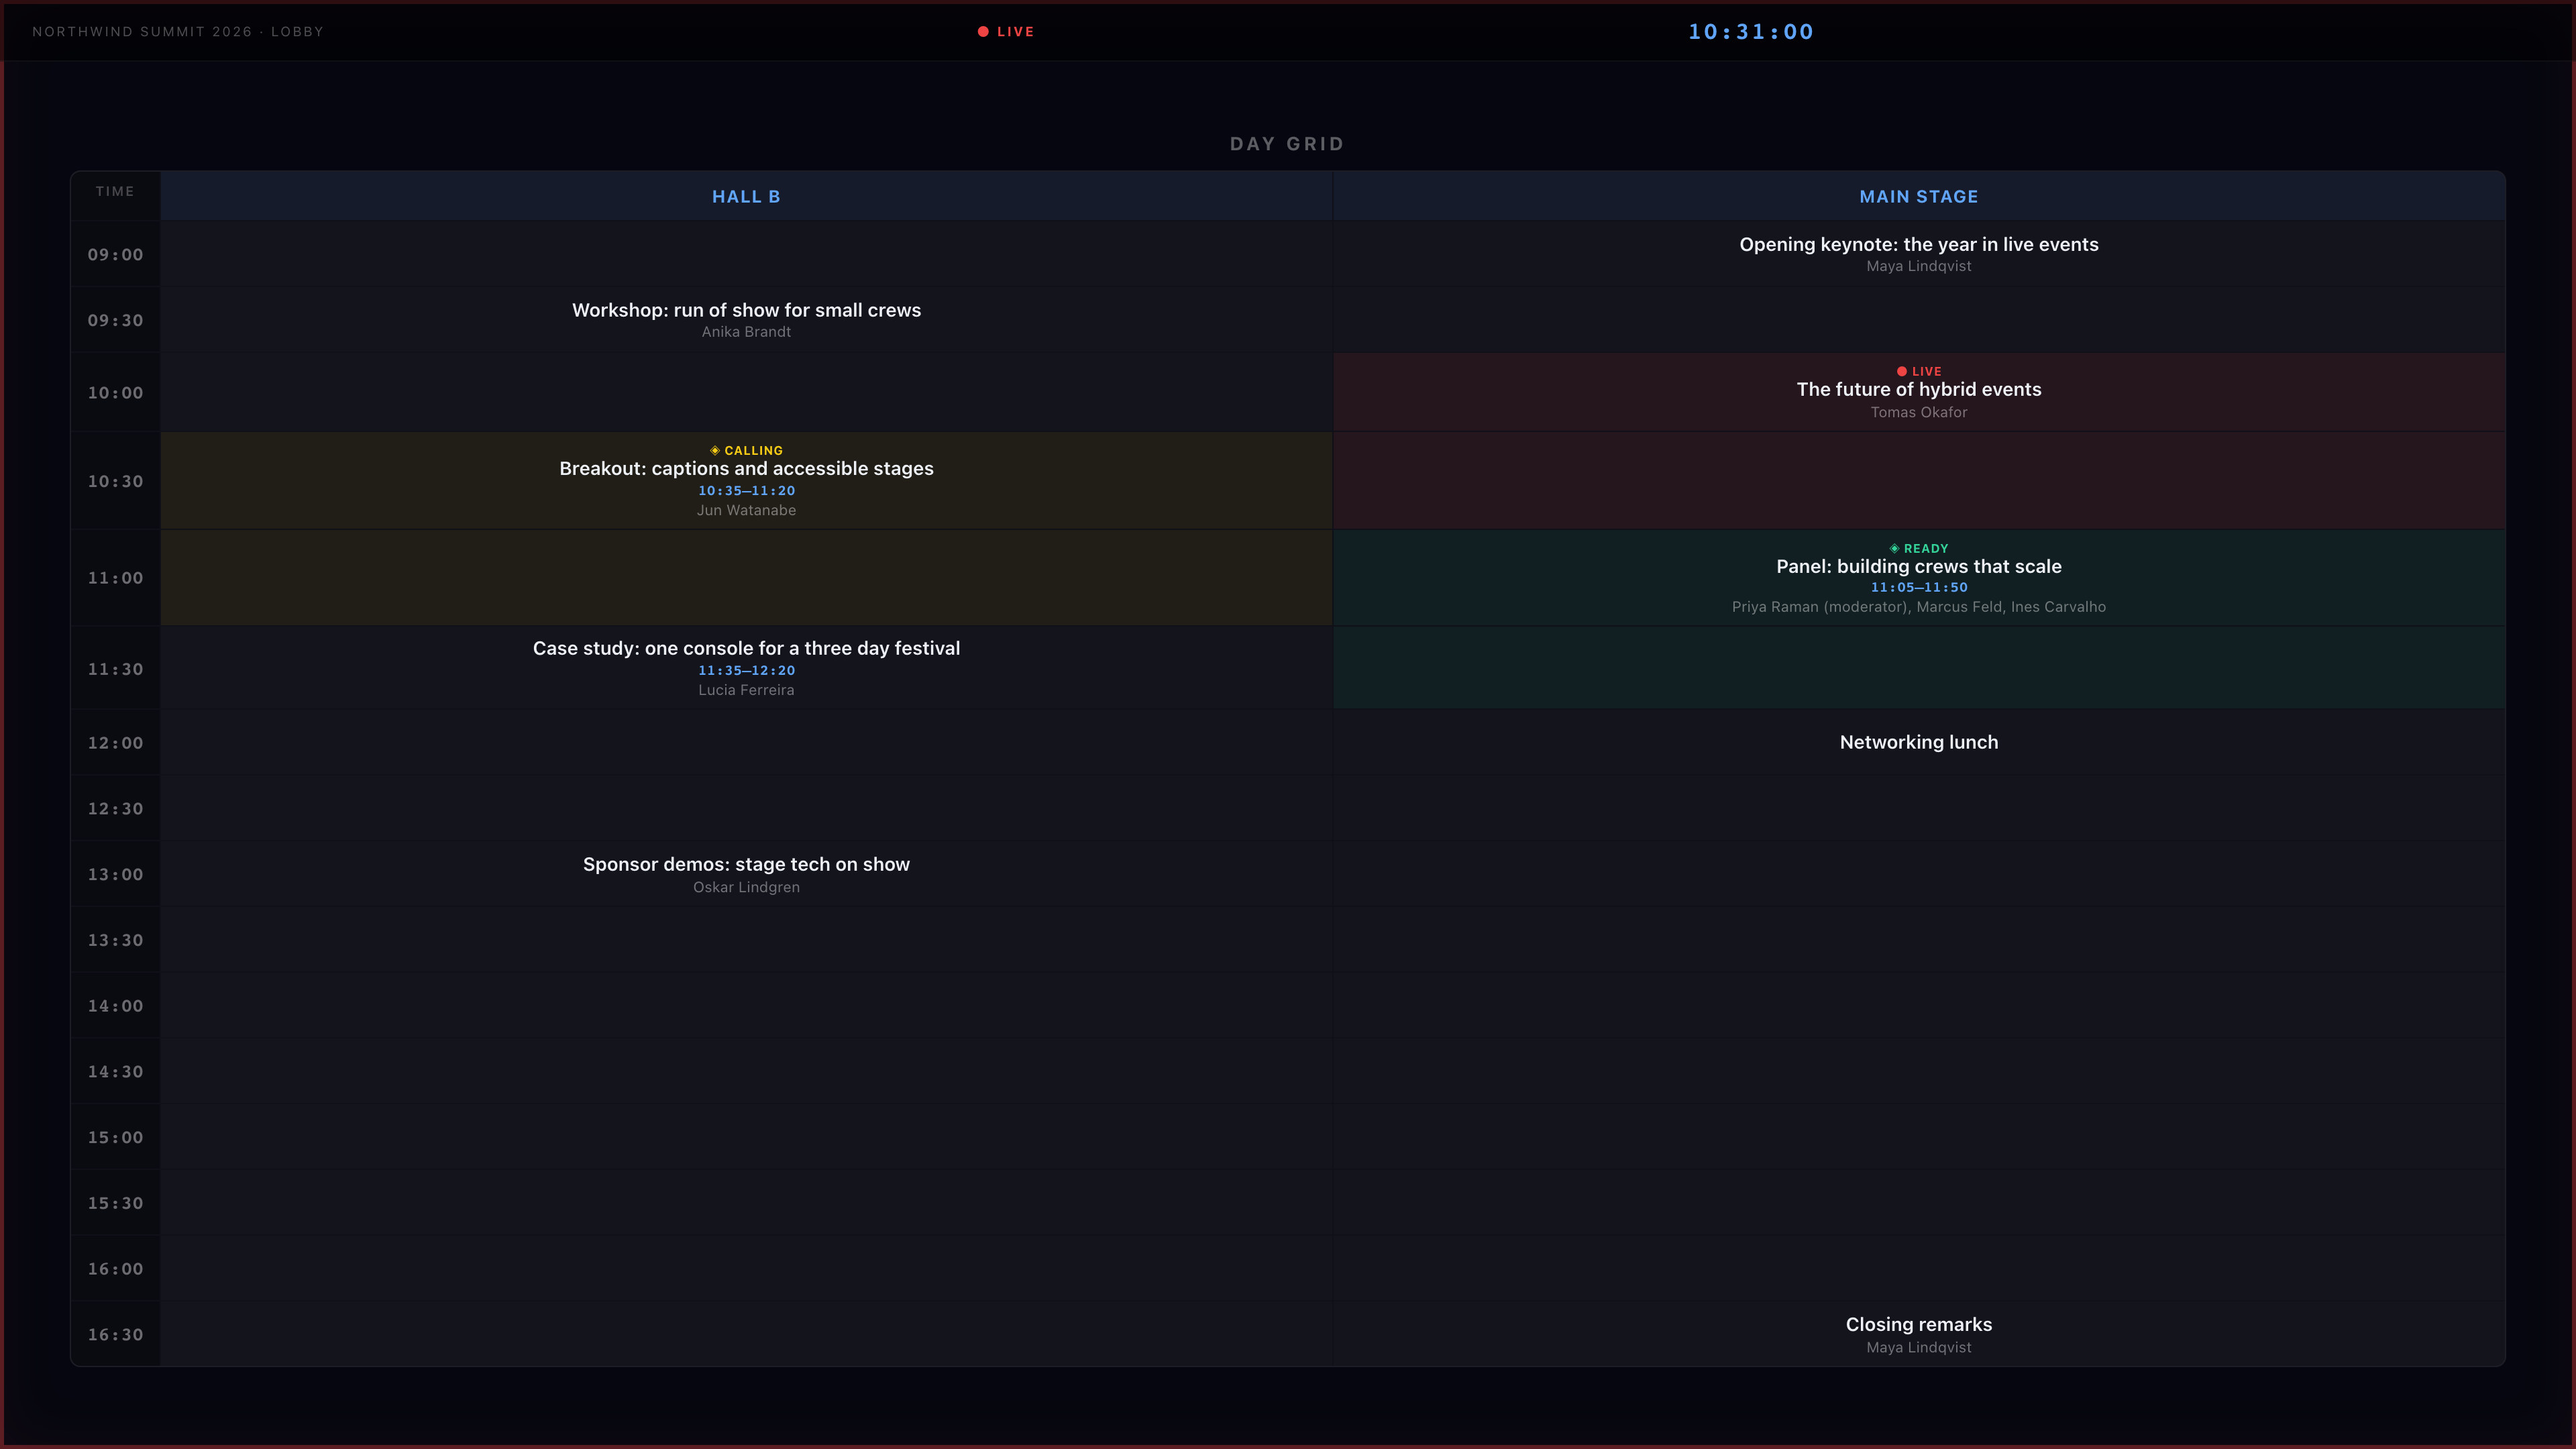
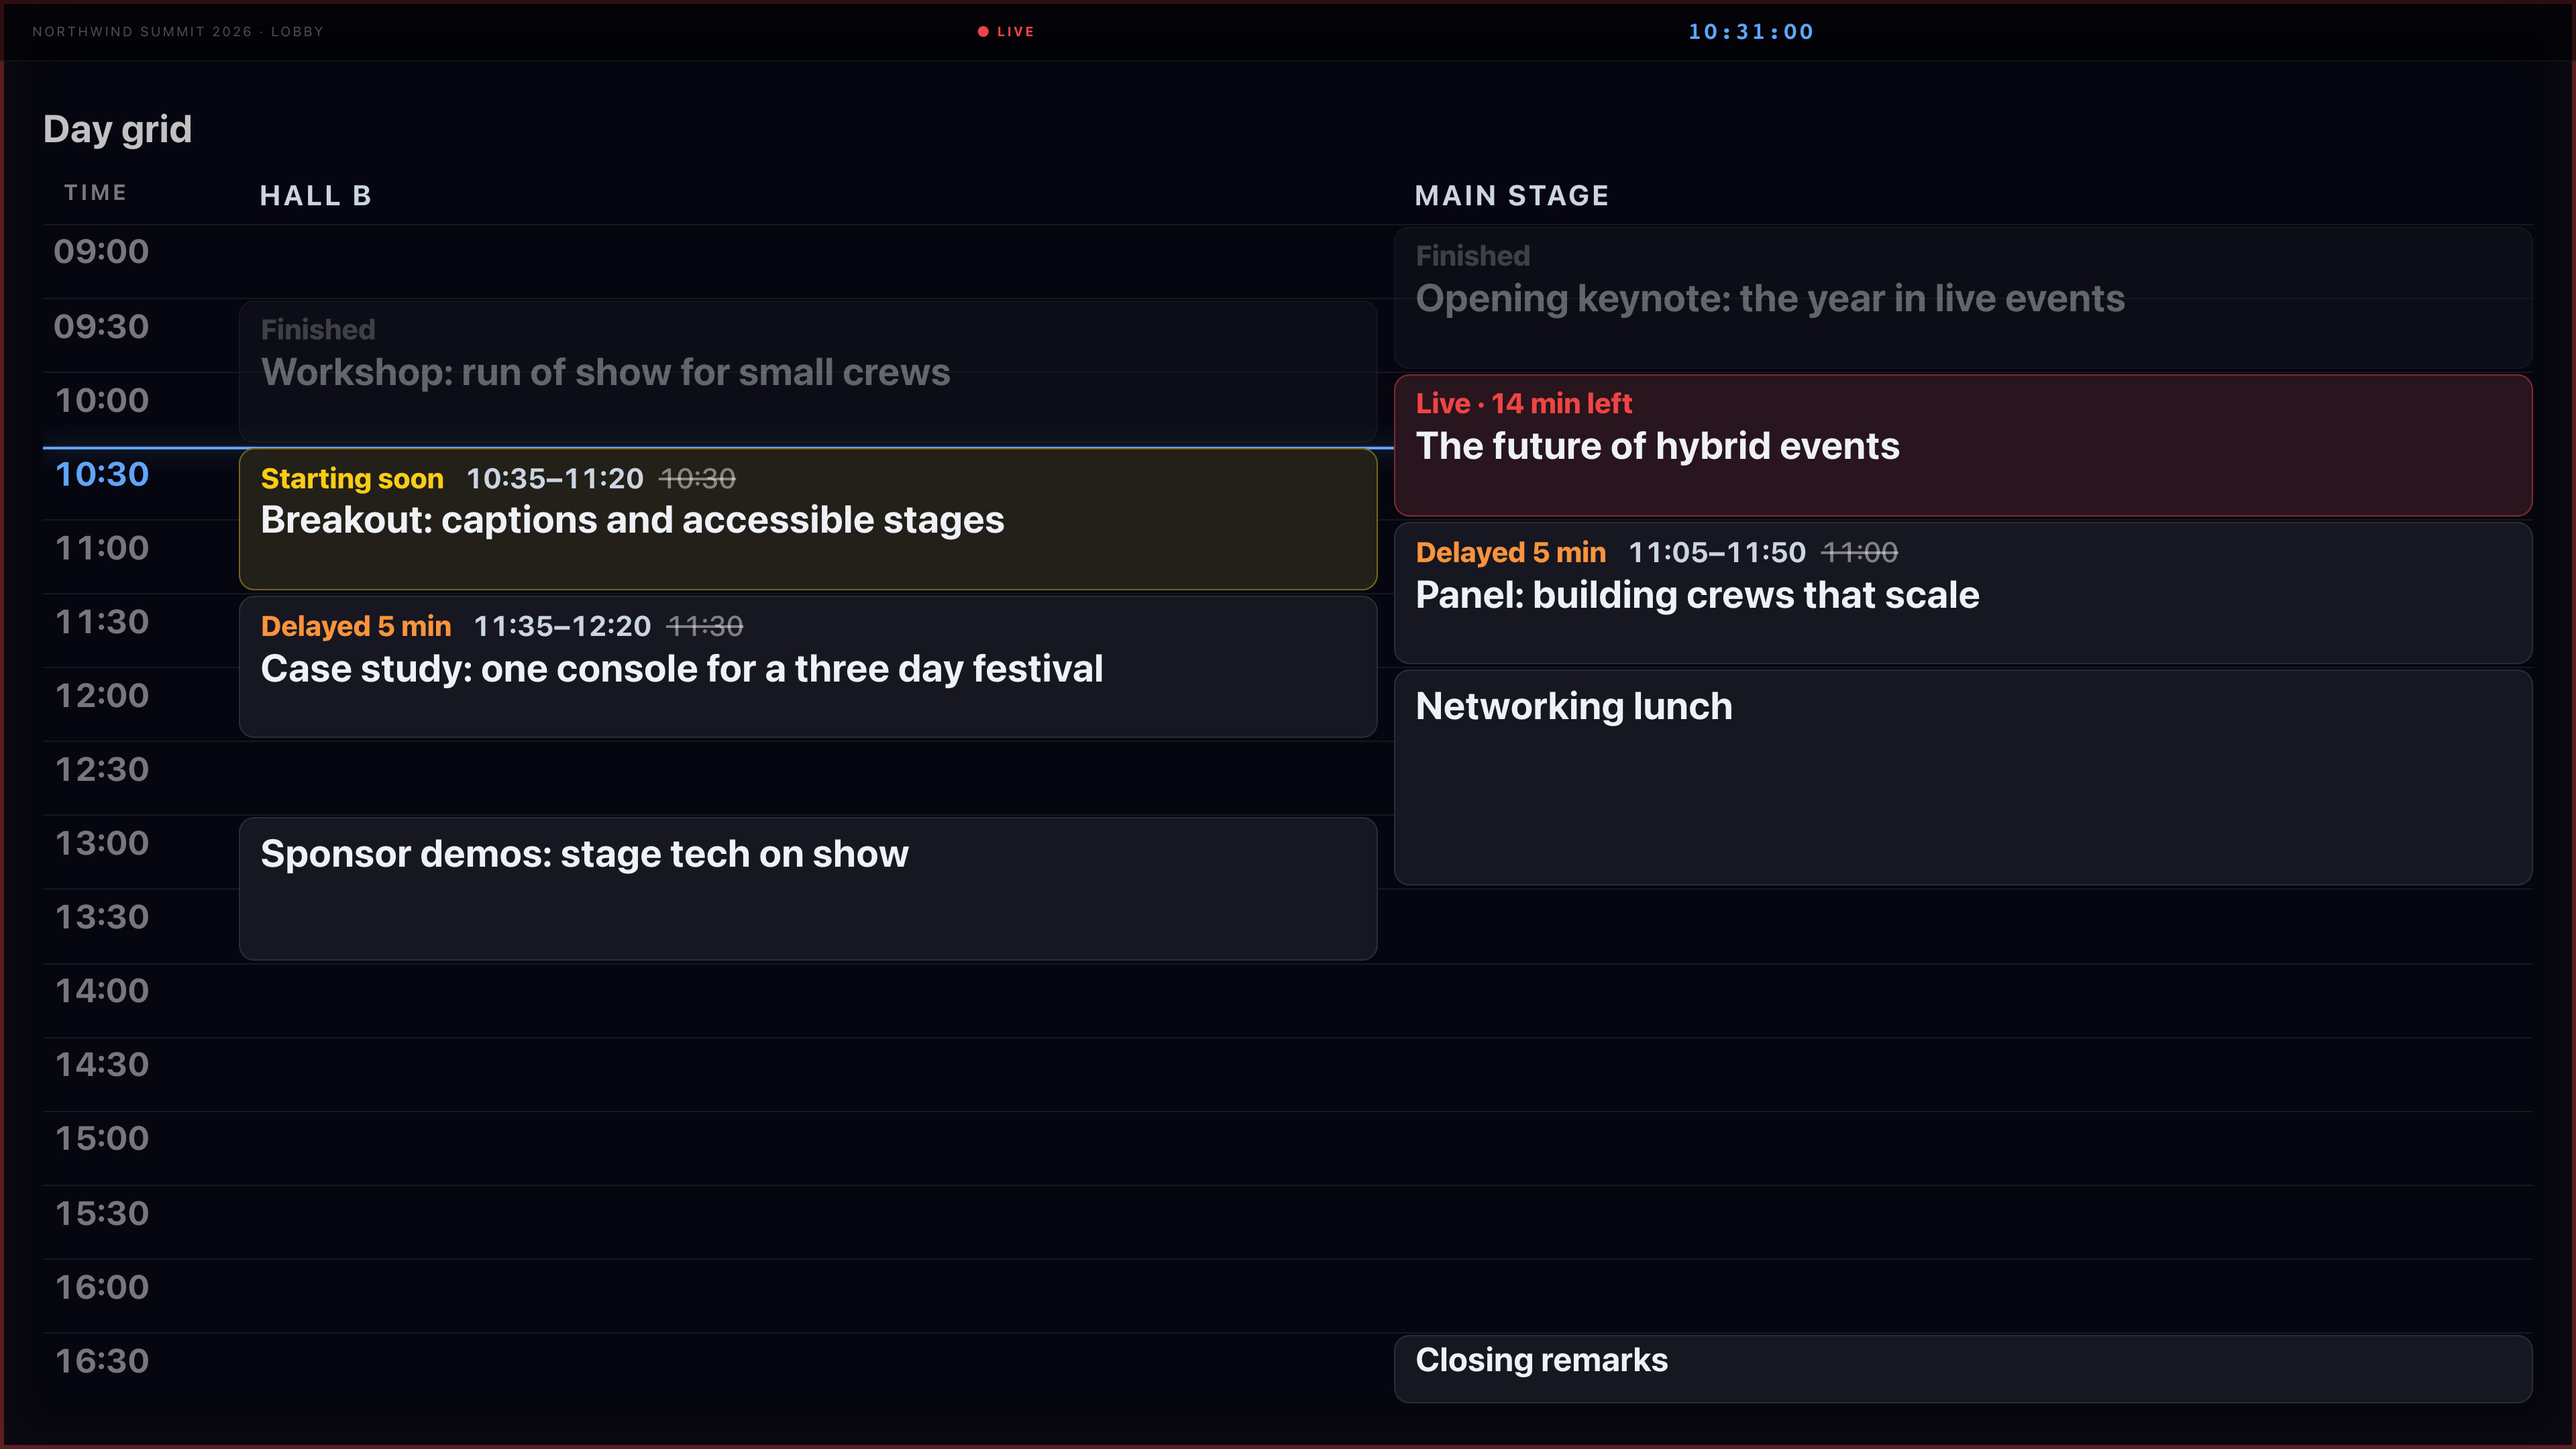
Lobby screens: agenda board and day grid from the redesigned displays

diff --git a/app/solutions/stage-timer/page.tsx b/app/solutions/stage-timer/page.tsx
@@ -96,18 +96,21 @@ export default function StageTimerPage() {
         <Showcase
           flip
           eyebrow="Lobby screens"
-          title="The whole day on the lobby screens"
-          desc="The same displays can show the programme for everyone outside the room. The day grid lays out sessions by time and room, and the programme list runs through them in order with the speaker, room and length of each one. Both mark the session that is live."
-          img={{ src: "/screenshots/cuedeck-display-day-grid.jpg", width: 1920, height: 1080,
-            alt: "Day grid display for the lobby: Hall B and Main Stage columns with sessions from 09:00 to 16:30 and the live session highlighted" }}
+          title="The agenda on every lobby screen"
+          desc="One departures style list for the whole venue, with the time, session, room and status of each one. The day grid shows the same programme by room. Both follow delays, so a session that runs late shows its new time with the old one struck through."
+          img={{ src: "/screenshots/cuedeck-display-agenda-board.jpg", width: 3840, height: 2160,
+            alt: "Agenda board for the lobby: sessions listed with time, session, room and status, one live with 14 min left, one starting soon and two delayed 5 min with the old time struck through" }}
           device="monitor"
-          labels={[{ dot: DOT.info, title: "Day grid", sub: "Hall B and Main Stage, 09:00 to 16:30", pos: { left: -14, top: -16 } }]}
+          labels={[
+            { dot: DOT.live, title: "Live \u00b7 14 min left", sub: "The future of hybrid events", pos: { left: -14, top: -16 } },
+            { dot: DOT.delay, title: "Delayed 5 min", sub: "Old time struck through", pos: { left: -14, bottom: "14%" } },
+          ]}
           second={{
             layout: "pair",
             device: "monitor",
-            img: { src: "/screenshots/cuedeck-display-programme-list.jpg", width: 1920, height: 1080,
-              alt: "Programme list display for the lobby: sessions in order with start time, speaker, room and duration, finished sessions dimmed and the live session highlighted" },
-            labels: [{ dot: DOT.live, title: "Programme list", sub: "Live session highlighted", pos: { right: -10, top: -14 } }],
+            img: { src: "/screenshots/cuedeck-display-day-grid.jpg", width: 3840, height: 2160,
+              alt: "Day grid display for the lobby: Hall B and Main Stage columns with sessions from 09:00 to 16:30, the live session, a session starting soon and delayed sessions marked" },
+            labels: [{ dot: DOT.info, title: "Day grid", sub: "Hall B and Main Stage", pos: { right: -10, top: -14 } }],
           }}
         />
         <Showcase
